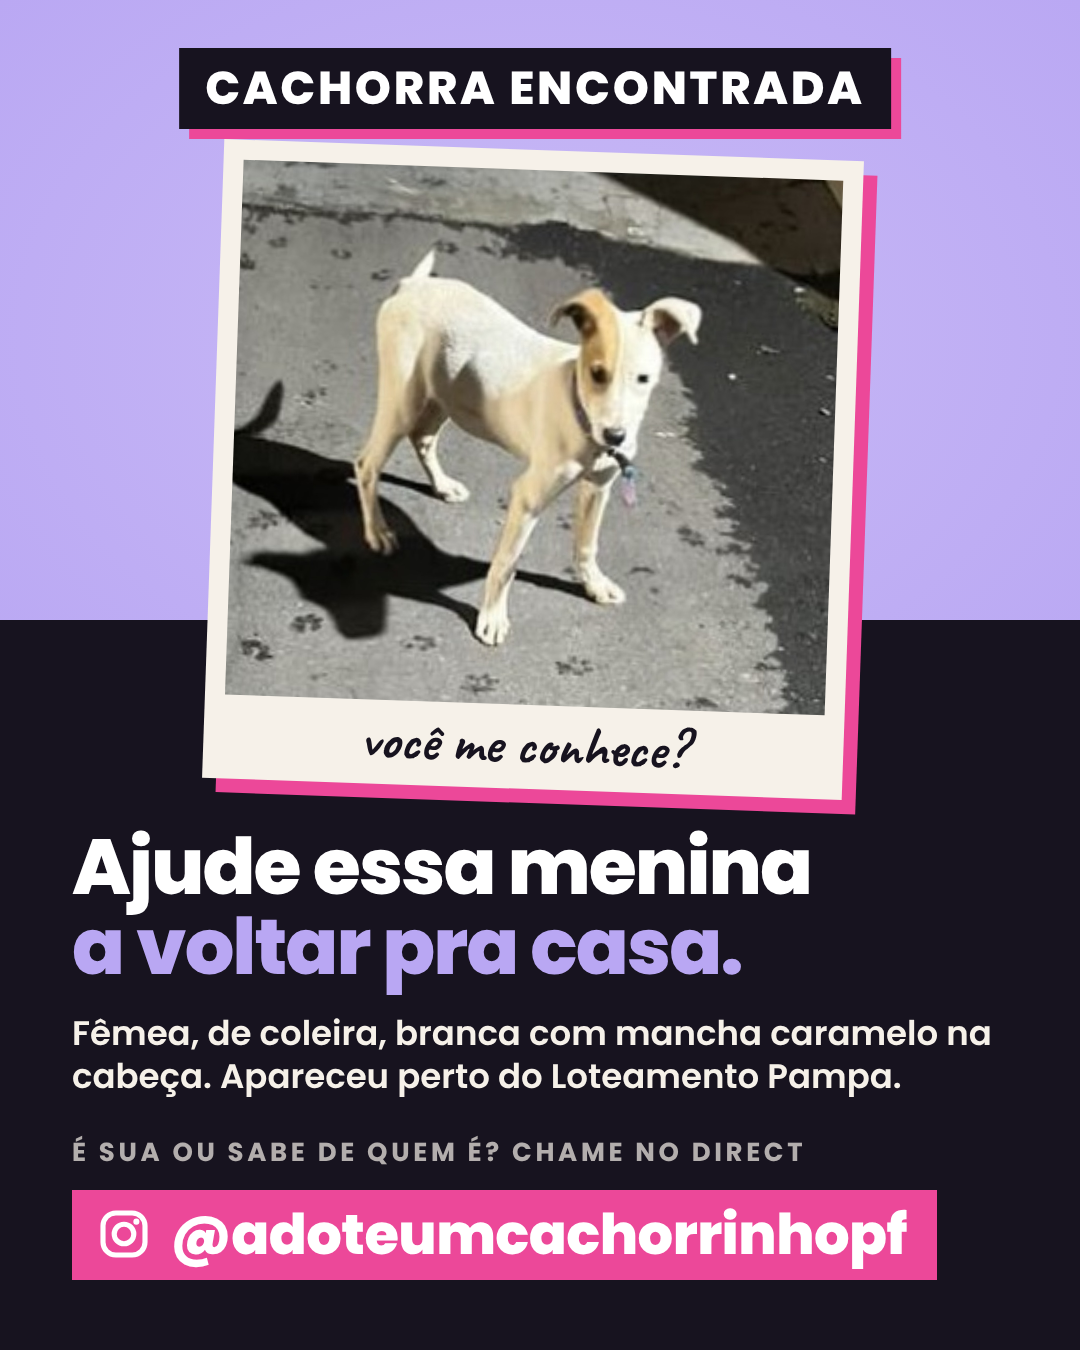
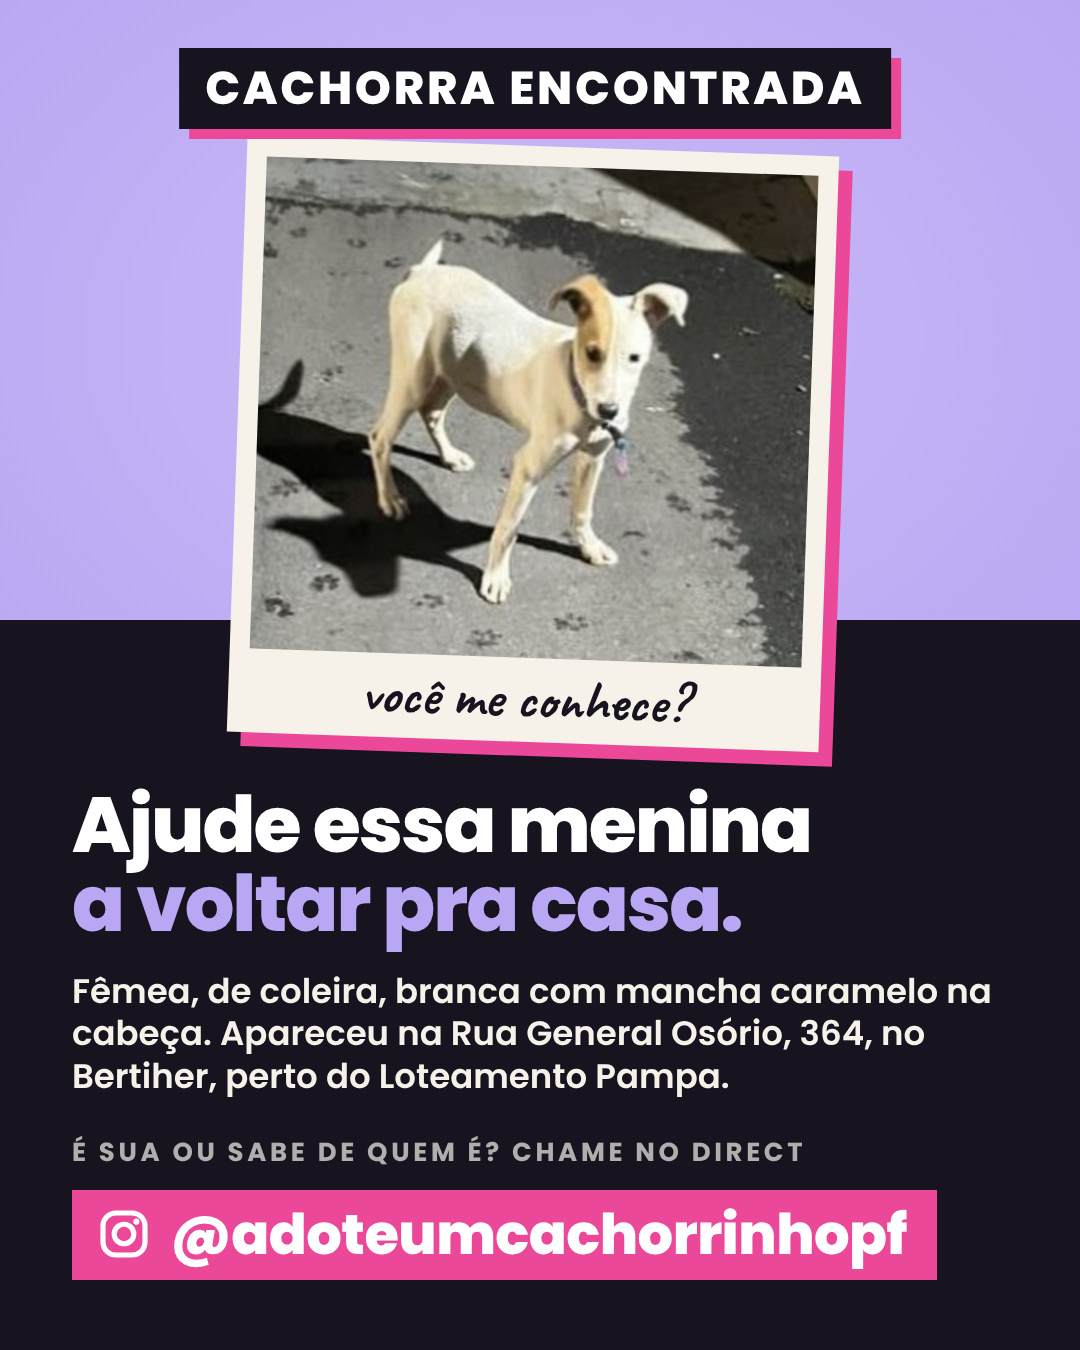
Loteamento Pampa: inclui a rua onde ela apareceu e o bairro
Rua General Osório, 364 (onde ela apareceu) e o bairro Bertiher, na grafia
do post, confirmados pela Isabela. A polaroide fica um pouco menor para o
texto mais longo caber sem encostar nela.

Claude-Session: https://claude.ai/code/session_01E463xH9BcWVb3vVwhdwWao

Changed region(s): [[0.0611, 0.0933, 0.9167, 0.8089]]

diff --git a/templates/desaparecidos/encontrada-loteamento-pampa.html b/templates/desaparecidos/encontrada-loteamento-pampa.html
@@ -12,7 +12,8 @@
   Caso Loteamento Pampa (perdidos/loteamento-pampa-1.png e -2.png, prints do post "PROCURA-SE O TUTOR!" do
   @adoteumcachorrinhopf): foto 2/2 tirada pelo foto_loteamento_pampa.py.
   Só o que o post diz: fêmea, usando coleira, apareceu perto do Loteamento Pampa; contato com o perfil que postou.
-  A cor é o que a foto mostra. O bairro do post ("Bertiher") ficou de fora até confirmar a grafia.
+  A cor é o que a foto mostra. O endereço do post (Rua General Osório, 364) é onde ela apareceu, e o bairro
+  vai com a grafia do post (Bertiher), as duas coisas confirmadas pela Isabela.
   O mesmo conteúdo sai em dois formatos: Stories/TikTok 1080x1920 (o pedido) e feed 1080x1350 (clonado pelo script).
 -->
 <style>
@@ -30,10 +31,10 @@ body{background:#000;font-family:P,sans-serif;-webkit-font-smoothing:antialiased
   background:linear-gradient(180deg,transparent 0 var(--painel),var(--ink) var(--painel)),
     radial-gradient(ellipse 70% 40% at 50% 25%,#C9BAF6 0%,var(--lilac) 100%);
   --top:48px;--bottom:70px;--painel:620px;
-  --py:150px;--pw:600px;--borda:20px;--pe:84px;               /* polaroide: topo, largura da foto, bordas */
+  --py:146px;--pw:552px;--borda:20px;--pe:84px;               /* polaroide: topo, largura da foto, bordas */
   --px:calc((1080px - var(--pw) - 2 * var(--borda) - 14px) / 2)}  /* centrada, contando a sombra */
 .card.story{height:1920px;--top:225px;--bottom:210px;--painel:860px;
-  --py:370px;--pw:670px;--borda:22px;--pe:96px}
+  --py:360px;--pw:630px;--borda:22px;--pe:96px}
 
 /* tag de categoria: a mesma caixa ink com sombra rosa do alerta */
 .tag{position:absolute;top:var(--top);left:50%;transform:translateX(calc(-50% - 5px));z-index:5;
@@ -75,7 +76,7 @@ body{background:#000;font-family:P,sans-serif;-webkit-font-smoothing:antialiased
   </div>
   <div class="txt">
     <div class="h">Ajude essa menina<br><em>a voltar pra casa.</em></div>
-    <div class="info">Fêmea, de coleira, branca com<br> mancha caramelo na cabeça.<br> Apareceu perto do Loteamento Pampa.</div>
+    <div class="info">Fêmea, de coleira, branca com<br> mancha caramelo na cabeça.<br> Apareceu na Rua General Osório, 364,<br> no Bertiher, perto do Loteamento Pampa.</div>
     <div class="rot">É sua ou sabe de quem é? Chame no direct</div>
     <div class="tel">
       <svg viewBox="0 0 24 24" fill="none" stroke="#fff" stroke-width="2.2" aria-hidden="true">
